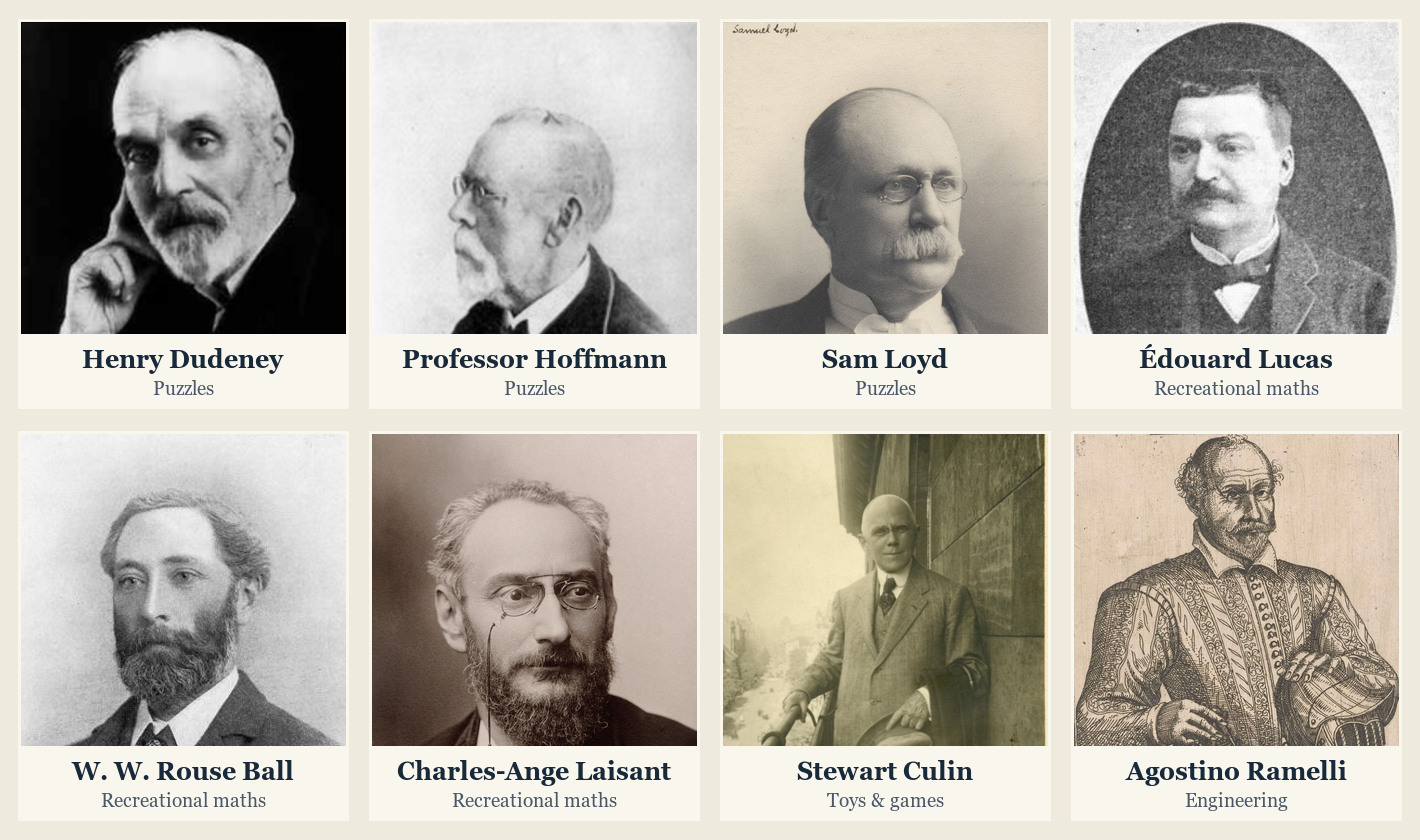
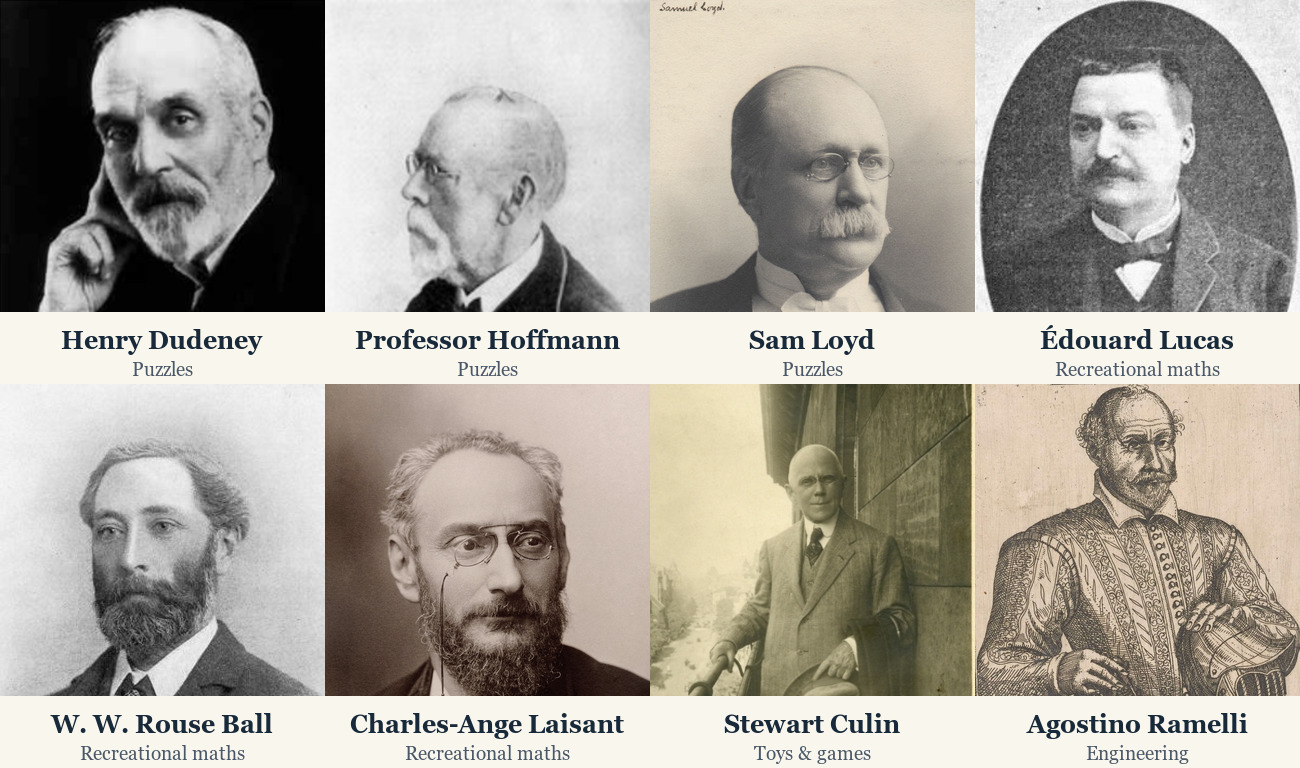
Explain the SDG figures and tighten the portrait layout

diff --git a/README.md b/README.md
@@ -11,20 +11,24 @@ The [solution writeup](https://www.kaggle.com/competitions/arc-prize-2026-arc-ag
 
 ## Synthetic Data Generation
 
-The pipeline turns book pages into structured puzzle specifications, pairs them with ARC-AGI-2 training-task summaries, and generates and verifies input and output programs. The release example uses four augmented training rows per accepted base puzzle.
+Old puzzle books, recreational mathematics, games, and engineering manuals supplied rule ideas for the synthetic data. Puzzles about counters suggest grid rules based on line crossings. Tiling problems suggest edge matching, mazes suggest path tracing, and mechanisms such as gears and hoists suggest chains of state changes.
 
 ![Archival portraits of Henry Dudeney, Professor Hoffmann, Sam Loyd, Édouard Lucas, W. W. Rouse Ball, Charles-Ange Laisant, Stewart Culin, and Agostino Ramelli.](sdg/assets/book-inspiration-collage.jpg)
 
-*Eight authors whose works inspired the puzzles. [Portrait credits](sdg/assets/portrait-credits.md).*
+*Eight authors from the source collection. [Portrait credits](sdg/assets/portrait-credits.md).*
 
-The two Kaggle notebooks demonstrate this workflow on pages from Hoffmann's *Puzzles Old and New*.
-
-1. [Book to ARC specs with Gemini](https://www.kaggle.com/code/darraghdog/book-to-arc-specs-with-gemini)
-2. [Book spec to ARC puzzles with Flash](https://www.kaggle.com/code/darraghdog/book-spec-to-arc-puzzles-with-flash)
+The Hoffmann example begins with a challenge about arranging counters in rows. Gemini extracts the line-crossing idea, and an ARC-AGI-2 training task supplies the framed-grid format. The generated rule crops the input to the frame, recolours its border, and stamps a yellow cross where four lines meet. Three independently written output programs agreed on all 30 generated inputs before the puzzle was accepted.
 
 ![A book puzzle about counters on intersecting lines becomes an ARC specification, tested generator code, and example input and output grids.](sdg/assets/hoffmann-book-to-arc.png)
 
-*Hoffmann’s counters puzzle became an ARC-AGI-2 task about line crossings. [Puzzles Old and New (1893), p. 267](https://archive.org/details/puzzlesoldnew00hoff).*
+*From a counters puzzle in [Hoffmann’s Puzzles Old and New (1893), p. 267](https://archive.org/details/puzzlesoldnew00hoff) to an ARC-AGI-2 task.*
+
+The Kaggle demos show how to build examples from the same book.
+
+1. [Book to ARC specs with Gemini](https://www.kaggle.com/code/darraghdog/book-to-arc-specs-with-gemini) screens page images, extracts puzzle specs, and pairs them with ARC-AGI-2 training summaries.
+2. [Book spec to ARC puzzles with Flash](https://www.kaggle.com/code/darraghdog/book-spec-to-arc-puzzles-with-flash) generates testable input programs and checks output agreement. This demo uses Flash-Next for the generation stages shown with GPT-OSS-120B in the diagram.
+
+The release example uses four augmented training rows per accepted base puzzle.
 
 ## Model Training
 
